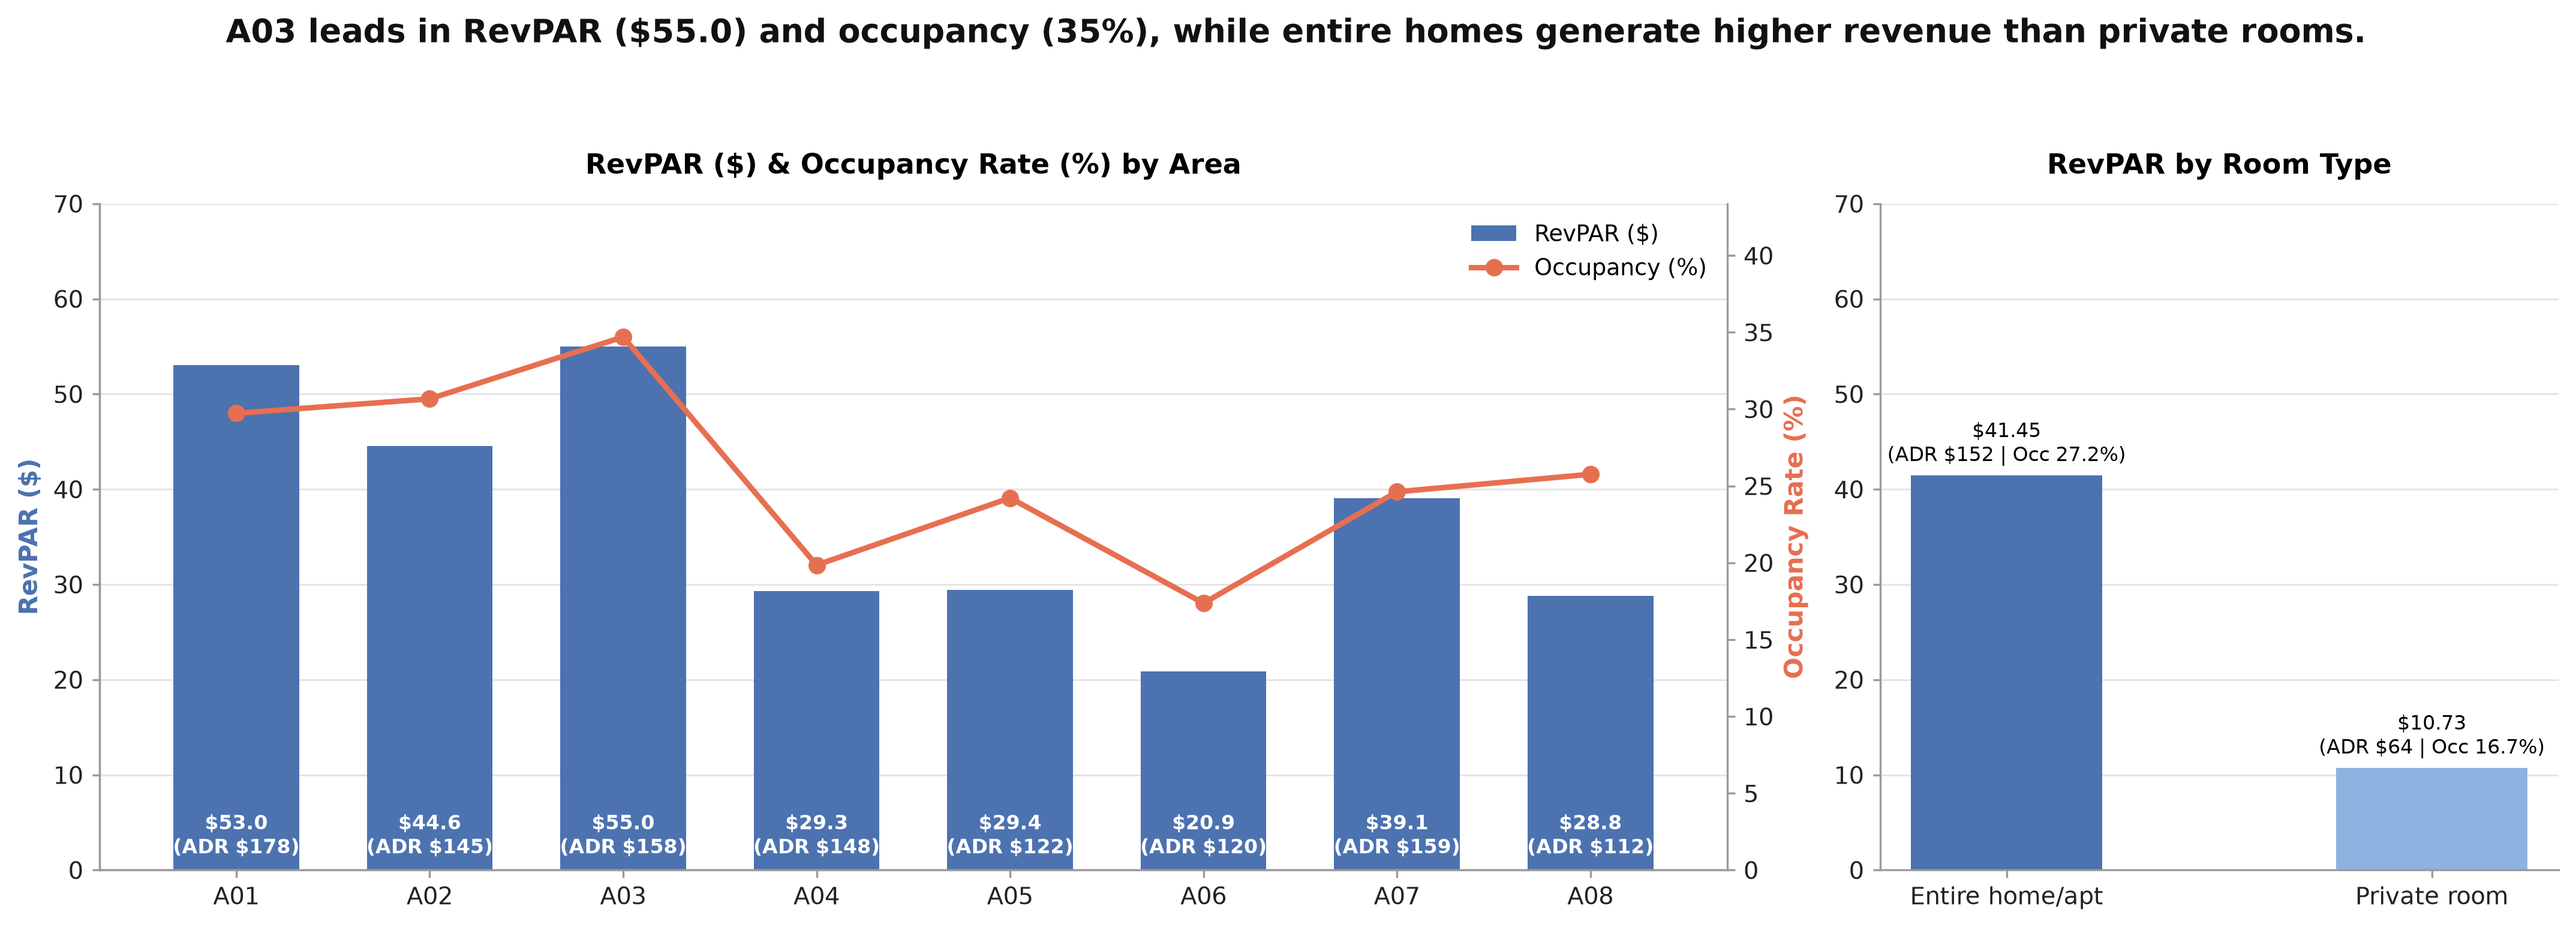
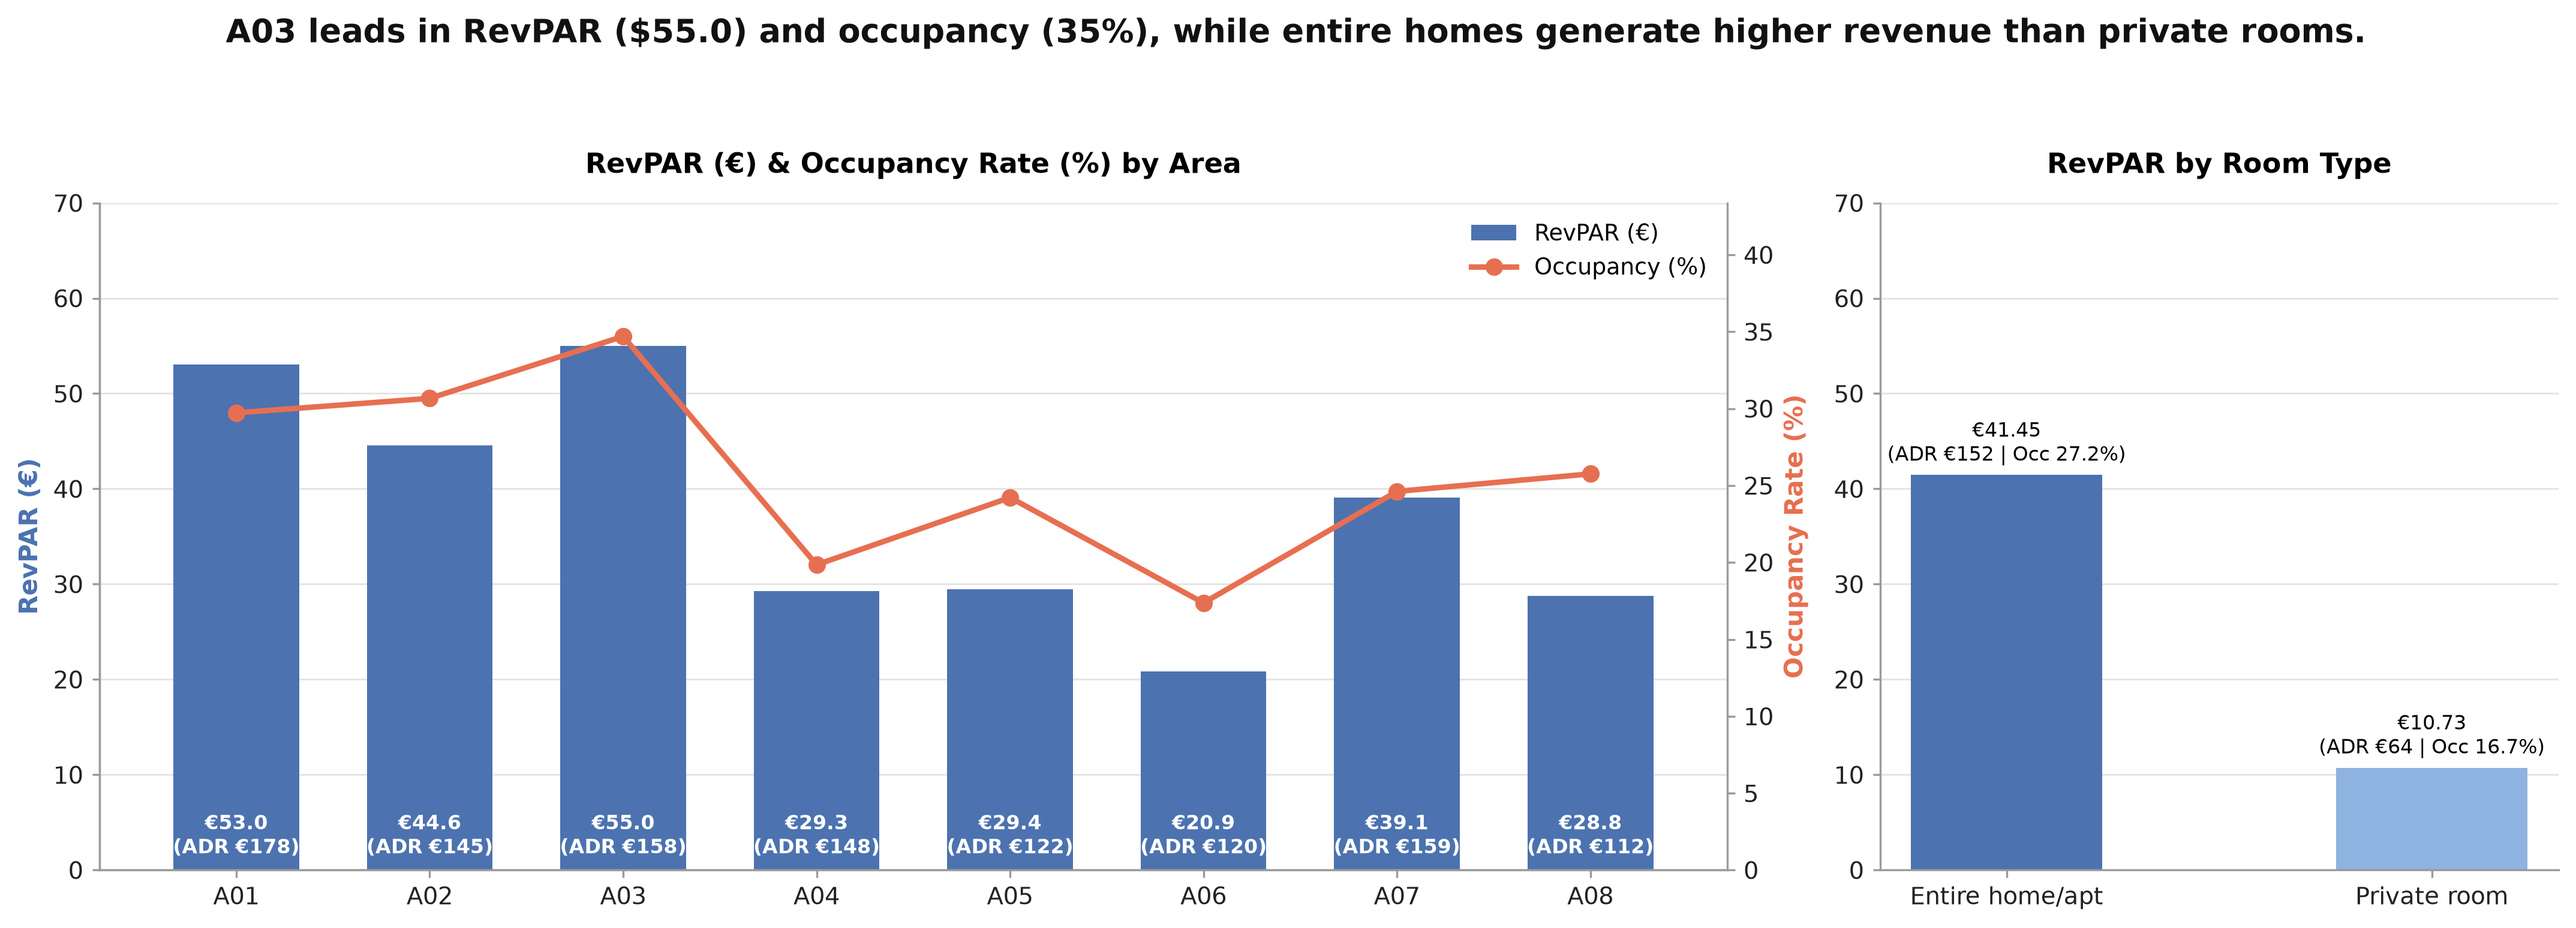
thêm tiêu đề cho geojson và upd requirement.txt

diff --git a/src/viz_geojson.py b/src/viz_geojson.py
@@ -470,7 +470,7 @@ def plot_revpar_geojson(
 
     snap_text = f" — Snapshot {snapshot_label}" if snapshot_label else ""
     fig.suptitle(
-        f"Porto Revenue Performance by Analysis Area (ADR, Occupancy & RevPAR){snap_text}",
+        f"A03 Leads in RevPAR (€55.0) and Occupancy (34.7%), While A01 Records the Highest ADR (€178).",
         y=0.97,
     )
 
@@ -580,7 +580,7 @@ def plot_label_distribution_area_geojson(
 
     snap_text = f" — Snapshot {snapshot_label}" if snapshot_label else ""
     fig.suptitle(
-        f"Review Sentiment & Experience Aspect Distribution by Analysis Area{snap_text}",
+        f"Positive Sentiment Exceeds 92% Across All Areas, While Noise Experiences Show Greater Regional Variation.",
         y=0.97,
     )
 
